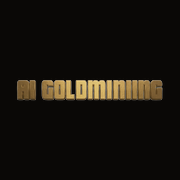
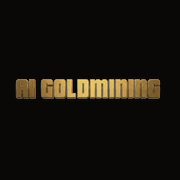
Course bundles + cross-grants: buy one course, unlock others
- migration_014: courses.bundled_courses jsonb (slugs unlocked alongside a course)
- Admin course editor: "Bundle / verknüpfte Kurse" picker — select other courses
  that unlock when this one is bought (works for new + existing courses); one-sided
- updateCourse persists bundled_courses (best-effort so it works pre-migration)
- Stripe webhook expands bundles on purchase (grants paid 0€ rows for included
  courses, skips already-owned to avoid duplicate purchase rows)
- Public course detail shows "Enthält N weitere Kurse" + renders Enthalten links

Changed region(s): [[0.0833, 0.4167, 0.9167, 0.5556]]

diff --git a/components/admin/courses/course-editor.tsx b/components/admin/courses/course-editor.tsx
@@ -3,7 +3,7 @@
 import { useState, useTransition } from "react";
 import { useRouter } from "next/navigation";
 import Link from "next/link";
-import { ArrowLeft, ExternalLink, ImageIcon, Save, Trash2 } from "lucide-react";
+import { ArrowLeft, ExternalLink, ImageIcon, Save, Trash2, Boxes } from "lucide-react";
 import { Panel } from "@/components/admin/ui";
 import { AdminButton } from "@/components/admin/admin-button";
 import { FileUpload } from "@/components/admin/file-upload";
@@ -44,8 +44,12 @@ export type EditorCourse = {
   isActive: boolean;
   sortOrder: number;
   includes: string[];
+  /** Slugs of other courses unlocked when THIS course is bought (bundle / bonus). */
+  bundledCourses: string[];
   modules: EditorModule[];
 };
+
+export type CoursePickOption = { slug: string; title: string };
 
 const LEVELS = ["Start", "Aufbau", "System", "Bundle"];
 
@@ -61,7 +65,13 @@ function toPreview(value: string | null): string | null {
   return `${base}/storage/v1/object/public/${value.slice("storage://".length)}`;
 }
 
-export function CourseEditor({ course }: { course: EditorCourse }) {
+export function CourseEditor({
+  course,
+  allCourses = [],
+}: {
+  course: EditorCourse;
+  allCourses?: CoursePickOption[];
+}) {
   const router = useRouter();
   const { success, error } = useToast();
   const [pending, startTransition] = useTransition();
@@ -82,6 +92,15 @@ export function CourseEditor({ course }: { course: EditorCourse }) {
   const [isActive, setIsActive] = useState(course.isActive);
   const [sortOrder, setSortOrder] = useState(course.sortOrder);
   const [includesText, setIncludesText] = useState(course.includes.join("\n"));
+  const [bundled, setBundled] = useState<string[]>(course.bundledCourses ?? []);
+
+  const otherCourses = allCourses.filter((c) => c.slug !== course.slug);
+
+  function toggleBundled(slug: string) {
+    setBundled((prev) =>
+      prev.includes(slug) ? prev.filter((s) => s !== slug) : [...prev, slug]
+    );
+  }
 
   function handleSave() {
     if (!title.trim()) {
@@ -111,6 +130,7 @@ export function CourseEditor({ course }: { course: EditorCourse }) {
           .split("\n")
           .map((s) => s.trim())
           .filter(Boolean),
+        bundledCourses: bundled,
       });
       if (res.ok) {
         success("Kurs gespeichert.");
@@ -345,6 +365,64 @@ export function CourseEditor({ course }: { course: EditorCourse }) {
               >
                 Bild entfernen
               </AdminButton>
+            )}
+          </div>
+        </Panel>
+      </div>
+
+      {/* Bundle / linked courses */}
+      <div className="mt-6">
+        <Panel title="Bundle / verknüpfte Kurse">
+          <div className="space-y-4">
+            <p className="text-sm text-cream/50">
+              Wähle Kurse, die beim Kauf <span className="font-semibold text-cream/80">dieses</span>{" "}
+              Kurses <span className="font-semibold text-cream/80">automatisch mit freigeschaltet</span>{" "}
+              werden. So baust du ein <span className="text-gold-200">Bundle</span> (mehrere Kurse in
+              einem) oder gibst einen <span className="text-gold-200">Bonus-Kurs</span> dazu. Das gilt
+              einseitig: Käufer dieses Kurses bekommen die ausgewählten — nicht umgekehrt.
+            </p>
+
+            {otherCourses.length === 0 ? (
+              <p className="rounded-lg border border-white/10 bg-obsidian/40 px-3 py-3 text-sm text-cream/40">
+                Es gibt noch keine anderen Kurse zum Verknüpfen.
+              </p>
+            ) : (
+              <>
+                <div className="grid gap-2 sm:grid-cols-2">
+                  {otherCourses.map((c) => {
+                    const checked = bundled.includes(c.slug);
+                    return (
+                      <label
+                        key={c.slug}
+                        className={`flex cursor-pointer items-center gap-3 rounded-lg border px-3 py-2.5 transition-colors ${
+                          checked
+                            ? "border-gold-300/40 bg-gold-300/[0.06]"
+                            : "border-white/10 bg-obsidian/40 hover:border-white/20"
+                        }`}
+                      >
+                        <input
+                          type="checkbox"
+                          checked={checked}
+                          onChange={() => toggleBundled(c.slug)}
+                          className="h-4 w-4 rounded border-white/20 bg-obsidian accent-gold-300"
+                        />
+                        <span className="min-w-0">
+                          <span className="block truncate text-sm text-cream/90">{c.title}</span>
+                          <span className="block truncate font-mono text-[10px] uppercase tracking-wider text-cream/30">
+                            {c.slug}
+                          </span>
+                        </span>
+                      </label>
+                    );
+                  })}
+                </div>
+                <div className="flex items-center gap-2 text-xs text-cream/50">
+                  <Boxes className="h-3.5 w-3.5 text-gold-300/60" />
+                  {bundled.length === 0
+                    ? "Keine Kurse verknüpft."
+                    : `${bundled.length} Kurs${bundled.length === 1 ? "" : "e"} werden mit freigeschaltet. Zum Übernehmen oben „Speichern".`}
+                </div>
+              </>
             )}
           </div>
         </Panel>

diff --git a/app/(marketing)/kurse/[slug]/page.tsx b/app/(marketing)/kurse/[slug]/page.tsx
@@ -7,8 +7,10 @@ import { AddToCartButton } from "@/components/add-to-cart-button";
 import { CourseLevelBadge } from "@/components/course-level-badge";
 import { CourseReviews } from "@/components/course-reviews";
 import { CourseCurriculumOutline } from "@/components/course-curriculum-outline";
-import { getPublicCourse } from "@/lib/courses";
+import { getPublicCourse, getPublicCourses } from "@/lib/courses";
+import { parseIncludeLine } from "@/lib/course-includes";
 import { formatEuro } from "@/lib/utils";
+import { Boxes } from "lucide-react";
 
 export const dynamic = "force-dynamic";
 
@@ -34,6 +36,17 @@ export default async function CourseDetailPage({
 
   const autoBuy = buy === "1";
 
+  // Resolve bundled/linked courses (slugs → titles) for the "included" display.
+  const bundledSlugs = course.bundledCourses ?? [];
+  let bundledCourses: { slug: string; title: string }[] = [];
+  if (bundledSlugs.length > 0) {
+    const all = await getPublicCourses();
+    bundledCourses = bundledSlugs
+      .map((s) => all.find((c) => c.slug === s))
+      .filter((c): c is NonNullable<typeof c> => Boolean(c))
+      .map((c) => ({ slug: c.slug, title: c.title }));
+  }
+
   return (
     <>
       <section className="relative py-32 bg-obsidian overflow-hidden">
@@ -58,6 +71,32 @@ export default async function CourseDetailPage({
             </h1>
             <p className="mt-4 text-xl font-semibold text-gold-100">{course.tagline}</p>
             <p className="mt-6 max-w-2xl text-lg leading-9 text-white/50">{course.description}</p>
+
+            {bundledCourses.length > 0 && (
+              <div className="mt-8 rounded-2xl border border-gold-500/20 bg-gold-500/[0.05] p-5">
+                <div className="flex items-center gap-2 text-sm font-bold text-gold-100">
+                  <Boxes aria-hidden className="h-4 w-4 text-gold-300" />
+                  Enthält {bundledCourses.length} weitere{bundledCourses.length === 1 ? "n" : ""} Kurs{bundledCourses.length === 1 ? "" : "e"}
+                </div>
+                <p className="mt-1 text-sm text-white/45">
+                  Beim Kauf werden diese Kurse automatisch mit freigeschaltet:
+                </p>
+                <ul className="mt-3 grid gap-2 sm:grid-cols-2">
+                  {bundledCourses.map((c) => (
+                    <li key={c.slug}>
+                      <Link
+                        href={`/kurse/${c.slug}`}
+                        className="flex items-center gap-2 rounded-lg border border-white/10 bg-obsidian/40 px-3 py-2 text-sm text-white/80 transition-colors hover:border-gold-300/40 hover:text-gold-100"
+                      >
+                        <CheckCircle2 aria-hidden className="h-4 w-4 flex-none text-gold-300" />
+                        <span className="truncate">{c.title}</span>
+                      </Link>
+                    </li>
+                  ))}
+                </ul>
+              </div>
+            )}
+
             <div className="mt-8 grid grid-cols-2 gap-0 divide-x divide-white/[0.06] border-t border-white/[0.06] pt-6">
               <div className="pr-6">
                 <p className="text-xs font-semibold uppercase tracking-[0.15em] text-white/30 mb-1">Preis</p>
@@ -103,12 +142,29 @@ export default async function CourseDetailPage({
             </h2>
             <p className="mt-5 text-lg leading-9 text-white/50">{course.outcome}</p>
             <div className="mt-8 grid gap-3">
-              {course.includes.map((item) => (
-                <div key={item} className="flex items-start gap-3 text-white/70">
-                  <CheckCircle2 aria-hidden className="mt-1 h-5 w-5 flex-none text-gold-300" />
-                  <span className="leading-7">{item}</span>
-                </div>
-              ))}
+              {course.includes.map((item) => {
+                const parsed = parseIncludeLine(item);
+                const label = parsed?.label ?? item;
+                const href = parsed?.href ?? null;
+                return (
+                  <div key={item} className="flex items-start gap-3 text-white/70">
+                    <CheckCircle2 aria-hidden className="mt-1 h-5 w-5 flex-none text-gold-300" />
+                    {href ? (
+                      <Link
+                        href={href}
+                        className="leading-7 text-gold-100 underline decoration-gold-300/40 underline-offset-2 transition-colors hover:text-gold-200"
+                        {...(href.startsWith("http")
+                          ? { target: "_blank", rel: "noopener noreferrer" }
+                          : {})}
+                      >
+                        {label}
+                      </Link>
+                    ) : (
+                      <span className="leading-7">{label}</span>
+                    )}
+                  </div>
+                );
+              })}
             </div>
           </div>
           <div>

diff --git a/app/api/stripe/webhook/route.ts b/app/api/stripe/webhook/route.ts
@@ -141,6 +141,56 @@ async function handleCoursePurchase(
     return;
   }
 
+  // Bundles / cross-grants: unlock any courses the purchased course(s) include.
+  // One-directional. Skips courses the buyer already owns to avoid duplicate
+  // purchase rows. Best-effort — never blocks the main purchase flow.
+  if (userId) {
+    try {
+      const { data: boughtCourses } = await supabase
+        .from("courses")
+        .select("slug, bundled_courses")
+        .in("slug", slugs);
+
+      const bundledSlugs = new Set<string>();
+      for (const c of (boughtCourses ?? []) as {
+        slug: string;
+        bundled_courses: string[] | null;
+      }[]) {
+        const list = Array.isArray(c.bundled_courses) ? c.bundled_courses : [];
+        for (const s of list) if (s && !slugs.includes(s)) bundledSlugs.add(s);
+      }
+
+      if (bundledSlugs.size > 0) {
+        const { data: owned } = await supabase
+          .from("purchases")
+          .select("course_slug")
+          .eq("user_id", userId)
+          .in("course_slug", Array.from(bundledSlugs));
+        const ownedSet = new Set(
+          ((owned ?? []) as { course_slug: string }[]).map((r) => r.course_slug)
+        );
+        const toGrant = Array.from(bundledSlugs).filter((s) => !ownedSet.has(s));
+
+        if (toGrant.length > 0) {
+          await supabase.from("purchases").upsert(
+            toGrant.map((slug) => ({
+              user_id: userId,
+              course_slug: slug,
+              stripe_session_id: session.id,
+              stripe_customer_id: stripeCustomerId,
+              amount_total: 0,
+              currency: session.currency,
+              status: "paid",
+            })),
+            { onConflict: "stripe_session_id,course_slug", ignoreDuplicates: true }
+          );
+        }
+      }
+    } catch (e) {
+      console.error("Bundle expansion failed:", e instanceof Error ? e.message : e);
+    }
+  }
+
   if (alreadyRecorded) return; // webhook retry — don't resend / double-credit
 
   await recordReferral(supabase, session, userId, upserted?.[0]?.id ?? null);

diff --git a/app/admin/kurse/[id]/page.tsx b/app/admin/kurse/[id]/page.tsx
@@ -14,14 +14,20 @@ export default async function AdminCourseEditorPage({
   const admin = getSupabaseAdminClient();
   if (!admin) notFound();
 
-  const { data } = await admin
-    .from("courses")
-    .select("*, modules(*, lessons(*))")
-    .eq("id", id)
-    .maybeSingle();
+  const [{ data }, { data: allRows }] = await Promise.all([
+    admin
+      .from("courses")
+      .select("*, modules(*, lessons(*))")
+      .eq("id", id)
+      .maybeSingle(),
+    admin.from("courses").select("slug, title").order("title"),
+  ]);
 
   if (!data) notFound();
   const course = data as DbCourse;
+  const allCourses = ((allRows ?? []) as { slug: string; title: string }[]).map(
+    (c) => ({ slug: c.slug, title: c.title })
+  );
 
   const modules = [...(course.modules ?? [])]
     .sort((a, b) => a.position - b.position)
@@ -56,8 +62,9 @@ export default async function AdminCourseEditorPage({
     isActive: course.is_active,
     sortOrder: course.sort_order ?? 0,
     includes: Array.isArray(course.includes) ? course.includes : [],
+    bundledCourses: Array.isArray(course.bundled_courses) ? course.bundled_courses : [],
     modules,
   };
 
-  return <CourseEditor course={editorCourse} />;
+  return <CourseEditor course={editorCourse} allCourses={allCourses} />;
 }

diff --git a/app/admin/kurse/actions.ts b/app/admin/kurse/actions.ts
@@ -141,6 +141,8 @@ export type CourseInput = {
   isActive?: boolean;
   sortOrder?: number;
   includes?: string[];
+  /** Slugs of other courses unlocked when this course is purchased. */
+  bundledCourses?: string[];
 };
 
 export async function updateCourse(input: CourseInput): Promise<ActionResult> {
@@ -182,6 +184,23 @@ export async function updateCourse(input: CourseInput): Promise<ActionResult> {
     .eq("id", input.id);
 
   if (error) return { ok: false, error: duplicateMessage(error.message) };
+
+  // Bundled courses (cross-grants) — best-effort + separate so the main update
+  // still works on a DB where migration_014 hasn't run yet (missing column just
+  // returns an error we ignore). Never include the course's own slug.
+  if (Array.isArray(input.bundledCourses)) {
+    const bundled = Array.from(
+      new Set(
+        input.bundledCourses
+          .map((s) => slugify(s))
+          .filter((s) => s && s !== slug)
+      )
+    );
+    await supabase
+      .from("courses")
+      .update({ bundled_courses: bundled })
+      .eq("id", input.id);
+  }
 
   await logAudit({
     actorEmail: user.email,

diff --git a/lib/content.ts b/lib/content.ts
@@ -27,6 +27,8 @@ export type Course = {
   comingSoon?: boolean;
   sortOrder?: number;
   includes: string[];
+  /** Slugs of other courses unlocked when this course is purchased (bundle / cross-grant). */
+  bundledCourses?: string[];
   modules: Array<{
     id: string;
     title: string;

diff --git a/lib/db-types.ts b/lib/db-types.ts
@@ -41,6 +41,8 @@ export type DbCourse = {
   outcome?: string | null;
   featured?: boolean | null;
   includes?: string[] | null;
+  /** Slugs of other courses unlocked when this course is purchased (migration_014). */
+  bundled_courses?: string[] | null;
   sort_order?: number | null;
   updated_at?: string | null;
   created_at?: string | null;

diff --git a/lib/courses.ts b/lib/courses.ts
@@ -68,6 +68,7 @@ export function mapDbCourseToCourse(db: DbCourse): Course {
     comingSoon: db.is_active === false,
     sortOrder: db.sort_order ?? 0,
     includes: Array.isArray(db.includes) ? db.includes : [],
+    bundledCourses: Array.isArray(db.bundled_courses) ? db.bundled_courses : [],
     modules,
   };
 }